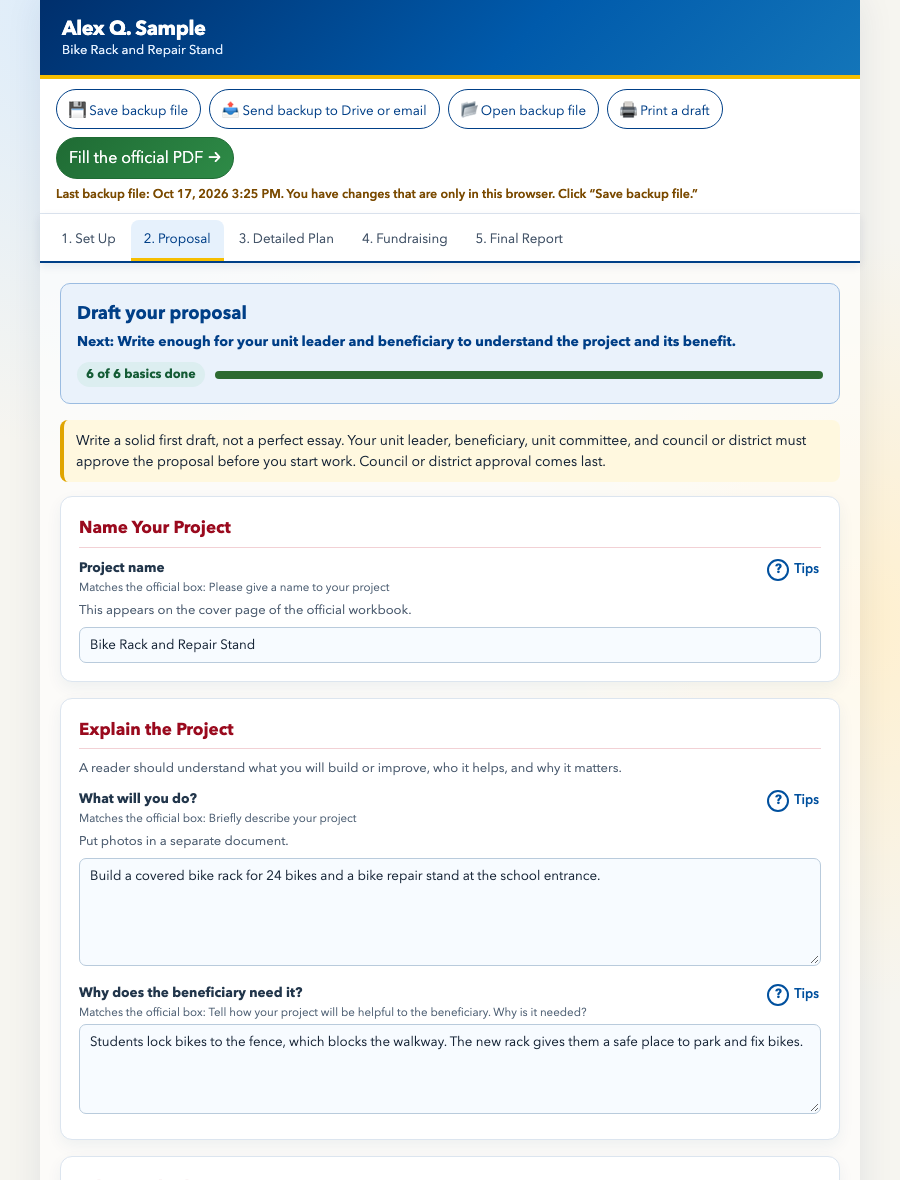
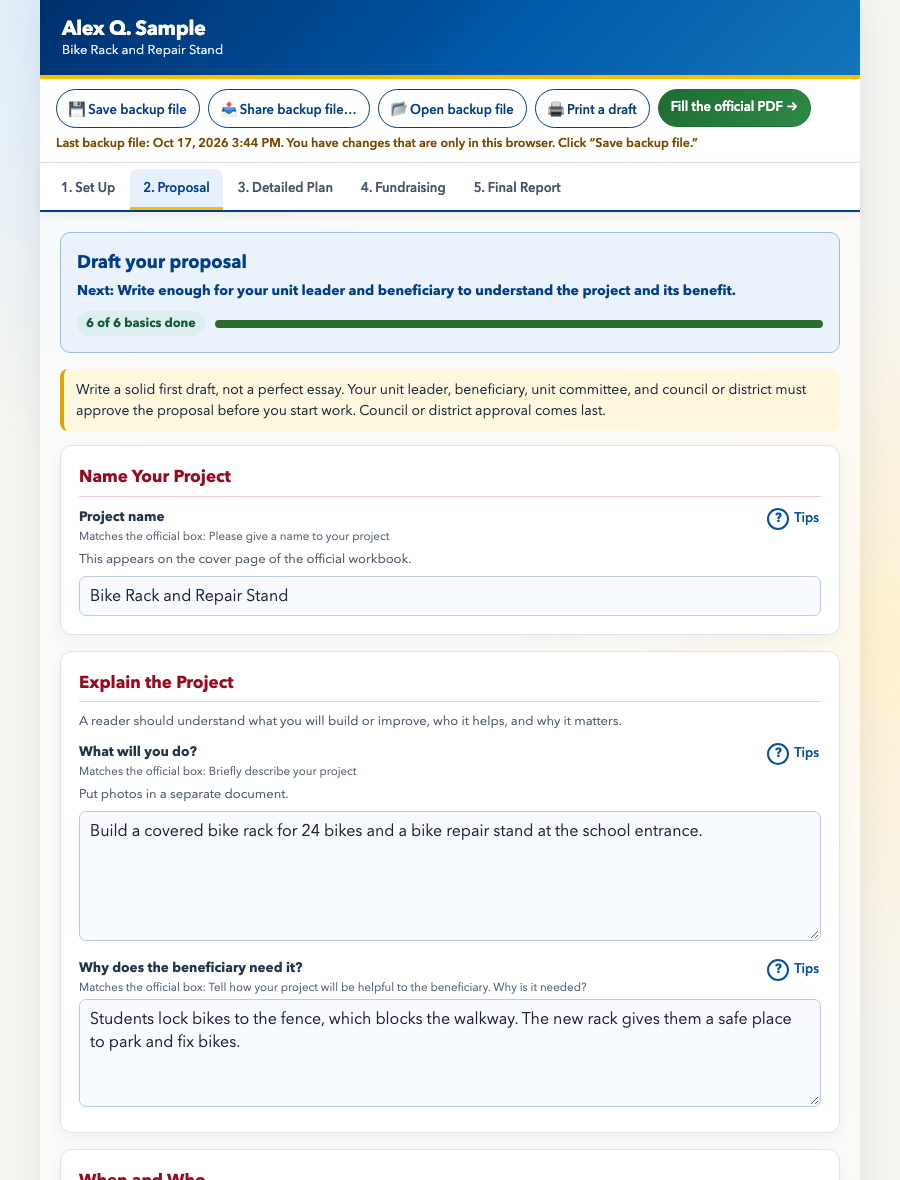
fix: Rename Share button and set honest expectations
The share menu lists whatever the device offers, which on computers
often excludes Drive. Rename the button to "Share backup file…" and
say in the help, README, and home page that dragging the file into
Drive is the dependable way.

diff --git a/lib/workbook-common.js b/lib/workbook-common.js
@@ -269,7 +269,7 @@
         h('p', null, 'Your answers are saved in this browser, but a browser can lose them (cleared data, a different browser, a school computer that resets). A backup file is your real save.'),
         h('ol', null,
           h('li', null, 'Click ', h('strong', null, 'Save backup file'), '. A file ending in .json goes to your Downloads folder (on a phone or tablet, look in the Files app).'),
-          h('li', null, 'Copy that file somewhere safe: go to drive.google.com (or Dropbox or OneDrive), sign in, and drag the file in. Or email it to yourself as an attachment.', canShareFiles() ? ' On this device you can also click Send backup to Drive or email.' : ' On a phone, open Files, tap the file, then Share.'),
+          h('li', null, 'Copy that file somewhere safe: go to drive.google.com (or Dropbox or OneDrive), sign in, and drag the file in. Or email it to yourself as an attachment.', canShareFiles() ? ' The Share backup file button opens your device\u2019s share menu. On a phone it usually lists Drive, Dropbox, and email. On a computer it often doesn\u2019t, so the steps above are the dependable way.' : ' On a phone, open Files, tap the file, then Share.'),
           h('li', null, 'To keep working later, or on another computer, click ', h('strong', null, 'Open backup file'), ' and choose it.')),
         h('p', { className: 'keep-safe-note' }, 'Share the file only with people who need it, such as your parent or unit leader.')));
   }
@@ -328,7 +328,7 @@
     return h('div', { className: 'workbook-controls' + (top ? ' top' : '') },
       h('div', { className: 'control-buttons' },
         h('button', { type: 'button', className: 'btn-control save', onClick: onSave }, '💾 Save backup file'),
-        onShare && canShareFiles() ? h('button', { type: 'button', className: 'btn-control share', onClick: onShare, title: 'Send the backup file to Google Drive, Dropbox, email, or another app. It has personal details, so use a private account.' }, '📤 Send backup to Drive or email') : null,
+        onShare && canShareFiles() ? h('button', { type: 'button', className: 'btn-control share', onClick: onShare, title: 'Open this device\u2019s share menu with the backup file. What it lists depends on your device. The file has personal details, so pick a private account.' }, '📤 Share backup file…') : null,
         h('button', { type: 'button', className: 'btn-control open', onClick: onOpen }, '📂 Open backup file'),
         h('button', { type: 'button', className: 'btn-control print', onClick: onPrint, title: 'Prints your answers as a simple draft for review. It is not the official form.' }, '🖨 Print a draft'),
         h('a', { className: 'btn-control fill' + (fillReady ? '' : ' quiet'), href: 'FillOfficialPDF.html' }, 'Fill the official PDF →')),

diff --git a/index.html b/index.html
@@ -57,7 +57,7 @@ footer{margin-top:24px;font-size:.85rem;color:var(--muted)}
     <h2>How it works</h2>
     <ol>
       <li>Open the <a href="EagleWorkbook-guided.html">Guided workbook</a>. Start with <strong>1. Set Up</strong> and <strong>2. Proposal</strong>. Your draft saves automatically in this browser. Click <strong>? Tips</strong> next to a box for an example and what to avoid.</li>
-      <li>Click <strong>💾 Save backup file</strong> often. It saves a file ending in <code>.json</code>, usually in your Downloads folder. That file is your real save: browsers can erase saved data. Then copy it somewhere safe: drag it into Google Drive, Dropbox, or OneDrive, or email it to yourself. Ask a parent first: the file holds your birth date, contacts, and address. Where you see <strong>📤 Send backup to Drive or email</strong>, it sends the file straight to those apps.</li>
+      <li>Click <strong>💾 Save backup file</strong> often. It saves a file ending in <code>.json</code>, usually in your Downloads folder. That file is your real save: browsers can erase saved data. Then copy it somewhere safe: drag it into Google Drive, Dropbox, or OneDrive, or email it to yourself. Ask a parent first: the file holds your birth date, contacts, and address. Where you see <strong>📤 Share backup file…</strong>, it opens your device’s share menu. On a phone that usually lists Drive, Dropbox, and email. On a computer it often doesn’t, so dragging the file into Drive is the dependable way.</li>
       <li>When you’re ready, click <strong>Fill the official PDF →</strong>. Get the official PDF, choose your answers, and create the filled PDF.</li>
       <li>Open the filled PDF and read every page. Add photos as separate attachments. Get the required signatures; this helper never fills them in.</li>
     </ol>

diff --git a/README.md b/README.md
@@ -24,7 +24,7 @@ Free, offline helpers for the **Eagle Scout Service Project Workbook**. Type you
    You get a folder named something like `EaglePaperworkHelper-main`. Move it somewhere easy to find, such as Documents. Keep everything in it together.
 3. **Open `index.html`.** Double-click it. It opens in your web browser and links to every page. (Windows may hide the `.html` ending, so look for **index**.) Click **Guided workbook (start here)**. Bookmark it, and always use the same browser.
 4. **Type your answers.** Start with **1. Set Up** and **2. Proposal**. Your draft saves automatically in this browser. Click **? Tips** next to a box for an example and what to avoid.
-5. **Save a backup file often.** Click **💾 Save backup file**. It saves a file such as `Eagle-workbook-backup-2026-10-16-1930.json` (date and time), usually in your Downloads folder. This file is your real save: browsers can erase saved data. Then copy it somewhere safe, such as Google Drive, Dropbox, or OneDrive, or email it to yourself. On many phones, tablets, Chromebooks, and some desktop browsers you will see **📤 Send backup to Drive or email**, which sends the file straight to those apps. The page “How to keep your work safe” (at the bottom of each workbook page) has the steps.
+5. **Save a backup file often.** Click **💾 Save backup file**. It saves a file such as `Eagle-workbook-backup-2026-10-16-1930.json` (date and time), usually in your Downloads folder. This file is your real save: browsers can erase saved data. Then copy it somewhere safe, such as Google Drive, Dropbox, or OneDrive, or email it to yourself. On many phones, tablets, Chromebooks, and some desktop browsers you will see **📤 Share backup file…**, which opens the device’s share menu. On a phone that usually lists Drive, Dropbox, and email. On a computer it often doesn’t, so dragging the file into Drive is the dependable way. The page “How to keep your work safe” (at the bottom of each workbook page) has the steps.
 6. **Fill the official PDF.** Click **Fill the official PDF →** and follow the four steps on that page.
 
 Open the filled PDF, read every page, and share it with the people reviewing your project.
